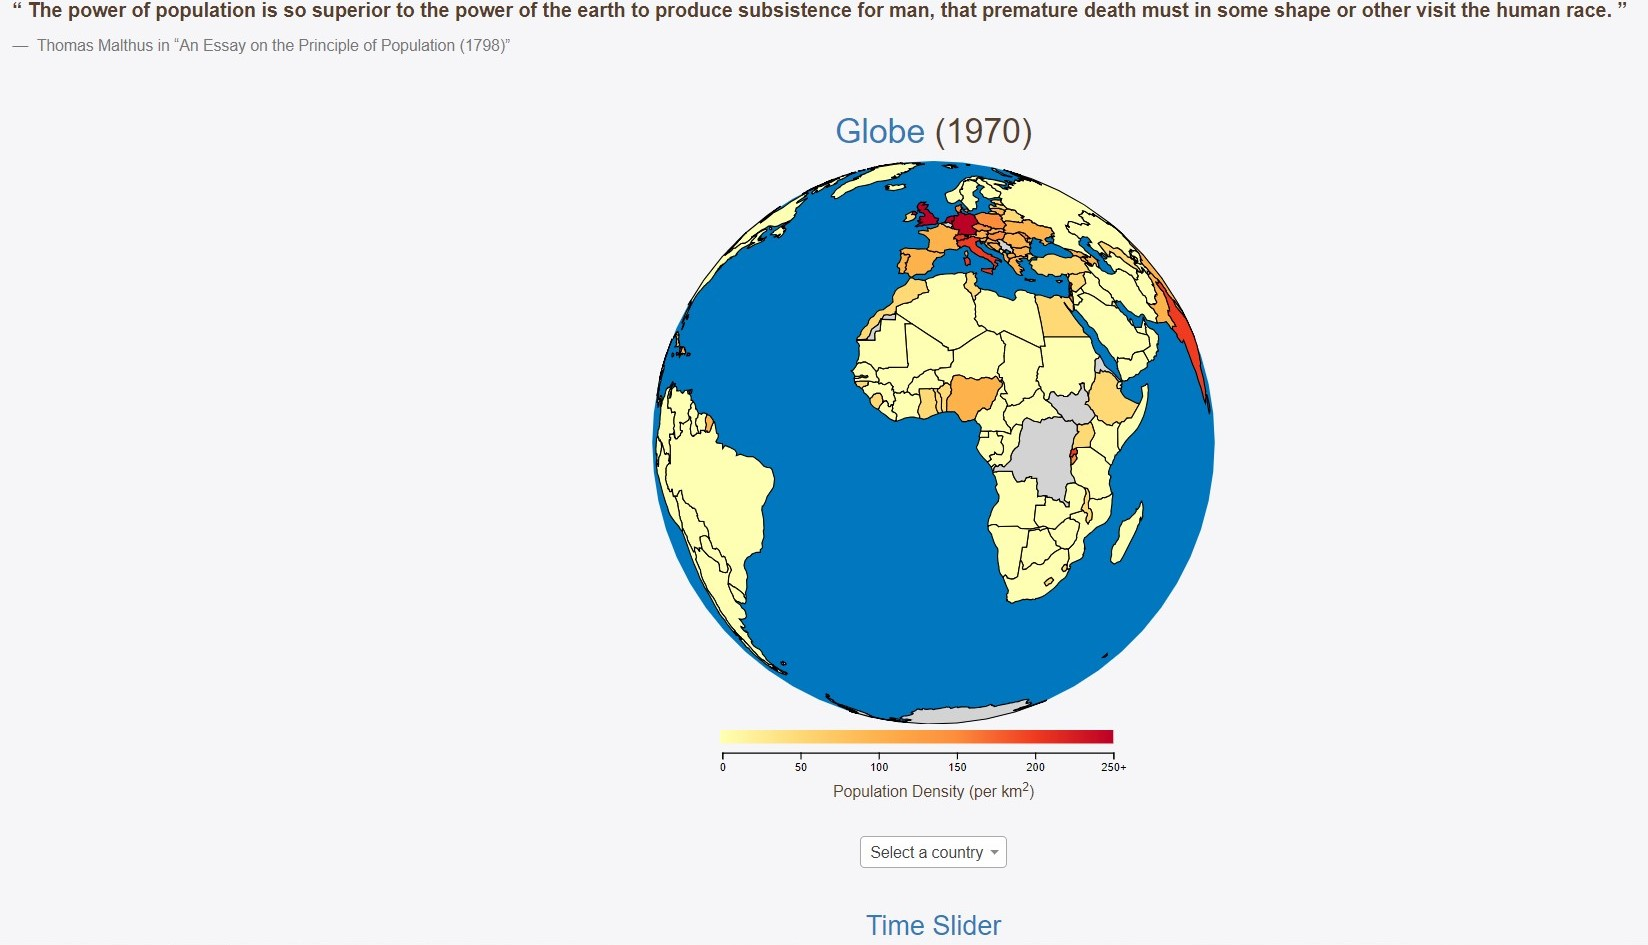
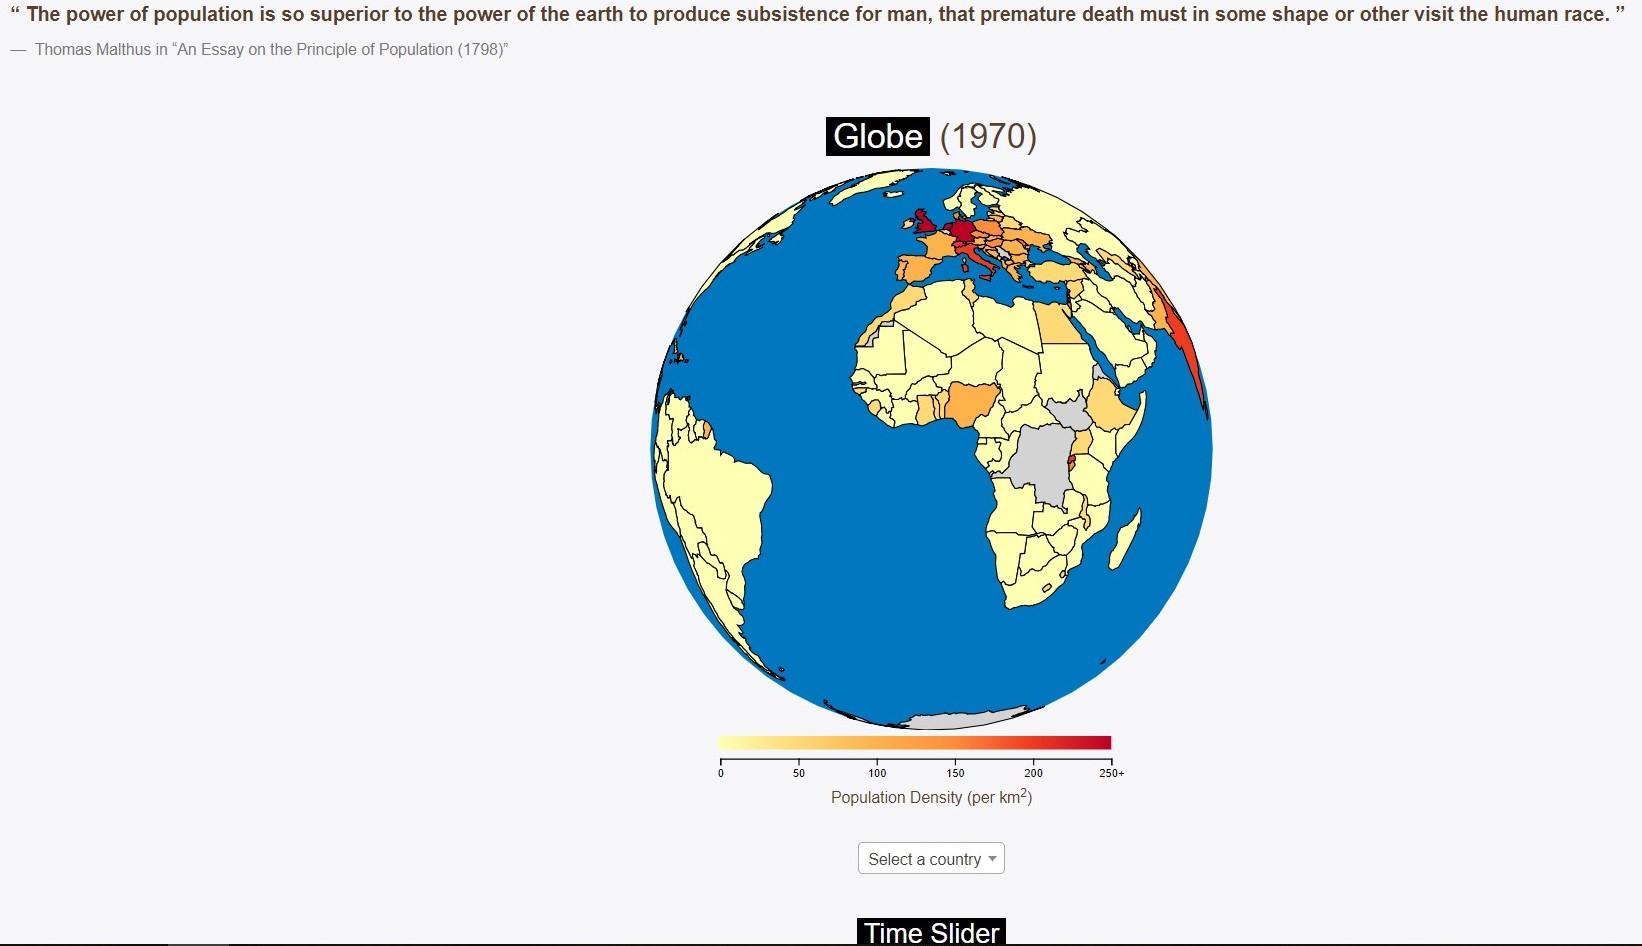
everything but video finished

diff --git a/index.html b/index.html
@@ -117,8 +117,8 @@
 
                 <!--  add a popover to the globe -->
                 <h2>
-                    <a title="<h4> How to use the Globe? </h4>" data-html="true" data-toggle="popover" data-trigger="hover" data-content="<div>The globe itself shows how densely populated some countries were in a specific year.<br><br> - To locate a country on the map the user could 1) drag the globe and find a country manually or 2) simply use the drop down menu right below the globe.<br><br>
-                    - Hoovering over a specific country, will change the countries colour on the globe to purple. <br><br> - By <b>CLICKING</b> on a specific country, the user will be presented with more information about the country that was selected. <br><br> - Countries with no data available are colored in grey <br><br> - The Donut chart and the Line Graph will also show more data about the specific country that was <b>CLICKED</b> on. <br><br> - Finally, note that by using the Timeslider below, the data projected on to the globe will change and show how densely populated countries were in the year that was selected.</div>">Globe</a><span id="globeTitle"> (1970)</span>
+                    <button type="button" title="<h4> How to use the Globe? </h4>" data-html="true" data-toggle="popover" data-trigger="hover" data-content="<div>The globe itself shows how densely populated some countries were in a specific year.<br><br> - To locate a country on the map the user could 1) drag the globe and find a country manually or 2) simply use the drop down menu right below the globe.<br><br>
+                    - Hoovering over a specific country, will change the countries colour on the globe to purple. <br><br> - By <b>CLICKING</b> on a specific country, the user will be presented with more information about the country that was selected. <br><br> - Countries with no data available are colored in grey <br><br> - The Donut chart and the Line Graph will also show more data about the specific country that was <b>CLICKED</b> on. <br><br> - Finally, note that by using the Timeslider below, the data projected on to the globe will change and show how densely populated countries were in the year that was selected.</div>">Globe</button><span id="globeTitle"> (1970)</span>
                 </h2>
             </div>
         </div>
@@ -145,7 +145,7 @@
 
             <!--  add a popover to the time slider -->
             <h3>
-                <a title="How to use the Time Slider?" data-html="true" data-toggle="popover" data-trigger="hover" data-content="<div>The Time Slider allows the user to change the year of which the data is shown on the Globe and on the Donut Chart. <br><br> - The user can choose any year between 1964 and 2014 by simply dragging the slider to the right place on the time line.<br><br> - Note that for years prior to 1990 their is <b>no</b> data available for the amount of forest area (% of land area)</div>">Time Slider</a>
+                <button type="button" title="How to use the Time Slider?" data-html="true" data-toggle="popover" data-trigger="hover" data-content="<div>The Time Slider allows the user to change the year of which the data is shown on the Globe and on the Donut Chart. <br><br> - The user can choose any year between 1964 and 2014 by simply dragging the slider to the right place on the time line.<br><br> - Note that for years prior to 1990 their is <b>no</b> data available for the amount of forest area (% of land area)</div>">Time Slider</button>
             </h3>
             <div class="col-sm">
                 <div id="timeSlider"></div>
@@ -178,11 +178,11 @@
 
                     <!--  add a popover to the line graph -->
                     <h2>
-                        <a title="How to use the Line Graph?" data-html="true" data-toggle="popover" data-trigger="hover" data-content="<div>The Line Graph allows the user to compare the population growth between 1964 and 2014 with the growth of another indicator of overpopulation. <br><br>
+                        <button class="button" type="button" title="How to use the Line Graph?" data-html="true" data-toggle="popover" data-trigger="hover" data-content="<div>The Line Graph allows the user to compare the population growth between 1964 and 2014 with the growth of another indicator of overpopulation. <br><br>
                         - With the dropdown menu above the Line Graph, the user is able to pick which variable will be compared with the total population growth. There are three options: 1) Total food production, 2) Crop production and 3) Livestock production.<br><br>.
                         - The variable are compared by using index numbers<br><br>
                         - The average of 2004 - 2006 is taken as the index basis (100) for every variable.<br><br>
-                        - Note that for years prior to 1990 their is <b>no</b> data available for some of the countries (e.g. Balkans)</div>">Line Graph</a><span id="lineGraphTitle">: World</span>
+                        - Note that for years prior to 1990 their is <b>no</b> data available for some of the countries (e.g. former Soviet Republics)</div>">Line Graph</button><span id="lineGraphTitle">: World</span>
                     </h2>
                 </div>
 
@@ -201,7 +201,7 @@
 
                     <!--  add a popover to the donut chart -->
                     <h2>
-                        <a title="How to use the Donut Chart?" data-html="true" data-toggle="popover" data-trigger="hover" data-content="<div>- Hoovering over one of the areas will present a textbox showing the user how much of the total land area is being used by one of the variables. <br><br> - The percentages itself will not be shown on one of the areas when the size of the area is less than 3% of the total land area(too small otherwise)<br><br> - Note that for years prior to 1990 their is <b>no</b> data available for the amount of forest area (% of land area) </div>">Donut Chart</a><span id="donutChartTitle">: World (1970)</span>
+                        <button type="button" title="How to use the Donut Chart?" data-html="true" data-toggle="popover" data-trigger="hover" data-content="<div>- Hoovering over one of the areas will present a textbox showing the user how much of the total land area is being used by one of the variables. <br><br> - The percentages itself will not be shown on one of the areas when the size of the area is less than 3% of the total land area(too small otherwise)<br><br> - Note that for years prior to 1990 their is <b>no</b> data available for the amount of forest area (% of land area) </div>">Donut Chart</button><span id="donutChartTitle">: World (1970)</span>
                     </h2>
                 </div>
 

diff --git a/scripts/javascript/globe.js b/scripts/javascript/globe.js
@@ -17,8 +17,8 @@ var w = 600,
     focused;
 
 /*
- *  Function to create a globe.
- *  source: https://bl.ocks.org/KoGor/5994804
+   Function to create a globe.
+   source: https://bl.ocks.org/KoGor/5994804
  */
 function createGlobe() {
 
@@ -46,8 +46,8 @@ function createGlobe() {
     var toolTip = d3.select("#globe").append("div").attr("class", "toolTip");
 
     /*
-     *  Add drop down menu to the globe with the select2 library.
-     *  source: https://select2.org/getting-started/basic-usage
+        Add drop down menu to the globe with the select2 library.
+        source: https://select2.org/getting-started/basic-usage
      */
     var countryDropDown = d3.select("#selectCountry").select("select")
         .attr("class", "countryDropDown").attr("name", "countryFeatures");
@@ -87,9 +87,9 @@ function createGlobe() {
         .attr("d", path)
 
         /*
-         *   Drag event function to allow user to rotate the globe when the
-         *   mouse is placed on a country.
-         *   source: https://bl.ocks.org/KoGor/5994804
+            Drag event function to allow user to rotate the globe when the
+            mouse is placed on a country.
+            source: https://bl.ocks.org/KoGor/5994804
          */
         .call(d3.drag()
             .subject(function() {
@@ -118,10 +118,7 @@ function createGlobe() {
                 .style("display", "none");
         })
 
-        /*
-         *   Click event updates the other visualizations.
-         *   Click events also change the country which is highlighted.
-         */
+        // click event updates all visualizations and highlights chosen country
         .on("click", function(d, i) {
             svg.selectAll(".focused").classed("focused", focused = false);
             var tipText = "No data available for"
@@ -155,14 +152,14 @@ function createGlobe() {
         });
 
         /*
-         *   Function called to fill the countries with a color based on their
-         *   population density.
+            Function called to fill the countries with a color based on their
+            population density.
          */
         colorUpdate();
 
         /*
-         *   Event when a country is selected which will rotate the globe and
-         *   which will highlight the chosen country.
+            Event when a country is selected which will rotate the globe and
+            which will highlight the chosen country.
          */
         $(".countryDropDown").on("select2:select", function(){
             var rotate = projection.rotate()
@@ -194,9 +191,9 @@ function createGlobe() {
              " (" + year + ")";
 
             /*
-             *  Transition function to rotate the globe smoothly and to
-             *  highlight chosen country.
-             *  source: https://bl.ocks.org/KoGor/5994804
+               Transition function to rotate the globe smoothly and to
+               highlight chosen country.
+               source: https://bl.ocks.org/KoGor/5994804
              */
             (function transition() {
                 d3.transition()
@@ -219,8 +216,8 @@ function createGlobe() {
 }
 
 /*
- *   Function to color the countries on the globe based on their population
- *   density per km2.
+    Function to color the countries on the globe based on their population
+    density per km2.
  */
 function colorUpdate() {
 
@@ -276,8 +273,8 @@ var svg = d3.select("#gradientLegend")
 
 
 /*
- *   Adds a defs element needed for the gradient legend.
- *   Source: https://www.visualcinnamon.com/2016/05/smooth-color-legend-d3-svg-gradient.html
+    Adds a defs element needed for the gradient legend.
+    Source: https://www.visualcinnamon.com/2016/05/smooth-color-legend-d3-svg-gradient.html
  */
 var defs = svg.append("defs");
 

diff --git a/scripts/javascript/linegraph.js b/scripts/javascript/linegraph.js
@@ -16,8 +16,8 @@ x,
 y;
 
 /*
- *   Function which creates a line graph.
- *   Inspiration: https://bl.ocks.org/d3noob/4db972df5d7efc7d611255d1cc6f3c4f
+    Function which creates a line graph.
+    Inspiration: https://bl.ocks.org/d3noob/4db972df5d7efc7d611255d1cc6f3c4f
  */
 function createLineGraph() {
 
@@ -120,8 +120,8 @@ function createLineGraph() {
     drawPath();
 
     /*
-     *    Event when user selects a option inside the drop down menu.
-     *    Draw new lines based on the value that was chosen by the user.
+         Event when user selects a option inside the drop down menu.
+         Draw new lines based on the value that was chosen by the user.
      */
     $(".indicatorDropdown").on("select2:select", function() {
         chosenValue = eval(this.value)
@@ -148,10 +148,10 @@ function drawPath() {
     d3.select("#popLineText").remove();
 
     /*
-     *   Need to calculate the base index for the total population for the
-     *   chosen country.
-     *   Base index is the average between 2004 and 2006.
-     *   Data did not provide this.
+        Need to calculate the base index for the total population for the
+        chosen country.
+        Base index is the average between 2004 and 2006.
+        Data did not provide this.
      */
     popTotal.forEach(function(d, i) {
         if (d["Country"] === country) {
@@ -221,20 +221,20 @@ function drawPath() {
 
     // add label to the chosen value line
     svg.append("text")
-      .attr("id", "foodLineText")
-      .attr("transform", "translate(" + textWidth + "," + textHeight + ")")
-      .attr("dy", ".35em")
-      .attr("text-anchor", "start")
-      .style("fill", "steelblue")
-      .text(chosenText);
+        .attr("id", "foodLineText")
+        .attr("transform", "translate(" + textWidth + "," + textHeight + ")")
+        .attr("dy", ".35em")
+        .attr("text-anchor", "start")
+        .style("fill", "steelblue")
+        .text(chosenText);
 
     // add label to the total population line
     svg.append("text")
-      .attr("id", "popLineText")
-      .attr("transform", "translate(" + textWidth + "," + (textHeight -
+        .attr("id", "popLineText")
+        .attr("transform", "translate(" + textWidth + "," + (textHeight -
              textPadding) +")")
-      .attr("dy", ".35em")
-      .attr("text-anchor", "start")
-      .style("fill", "red")
-      .text("Population Index");
+        .attr("dy", ".35em")
+        .attr("text-anchor", "start")
+        .style("fill", "red")
+        .text("Population Index");
 };

diff --git a/scripts/javascript/timeslider.js b/scripts/javascript/timeslider.js
@@ -20,10 +20,10 @@ function createTimeSlider() {
                 });
 
     /*
-     *   Determine size and ticks on the time slider.
-     *   On change event update other visualizations with data from the chosen
-     *   year.
-     *   Source: https://bl.ocks.org/johnwalley/e1d256b81e51da68f7feb632a53c3518
+        Determine size and ticks on the time slider.
+        On change event update other visualizations with data from the chosen
+        year.
+        Source: https://bl.ocks.org/johnwalley/e1d256b81e51da68f7feb632a53c3518
      */
     var timeSlider = d3.sliderHorizontal()
         .min(d3.min(years))
@@ -41,8 +41,8 @@ function createTimeSlider() {
             colorUpdate();
 
             /*
-             *   Change year in the donut chart title and update data needed to
-             *   refill the donut chart.
+                Change year in the donut chart title and update data needed to
+                refill the donut chart.
              */
             document.getElementById("donutChartTitle").innerHTML = ": " +
                 country + "(" + year  + ")";

diff --git a/scripts/javascript/main.js b/scripts/javascript/main.js
@@ -16,25 +16,20 @@ popDensity = [],
 popTotal = [],
 year = 1970;
 
-// call function to load data when page is loaded
-window.onload = function() {
-  loadData();
-};
-
 /**
- *  Function which loads three json files.
- *  Calls another function to check the queue response.
+   Function which loads three json files when website is opened.
+   Calls another function to check the queue response.
  */
-function loadData() {
+window.onload = function() {
   d3.queue()
     .defer(d3.json, "https://raw.githubusercontent.com/stevenuva/project/master/data/world_bank_data.json")
     .awaitAll(checkResponse);
 };
 
 /**
- *  Function checks if the queue response is vallid.
- *  Seperates the json data if response is vallid.
- *  Calls another function to store the data
+   Function checks if the queue response is vallid.
+   Seperates the json data if response is vallid.
+   Calls another function to store the data
  */
 function checkResponse(error, response) {
     var jsonData = []

diff --git a/scripts/javascript/donutchart.js b/scripts/javascript/donutchart.js
@@ -7,8 +7,8 @@
  */
 
 /*
- *  Function wich creates a donut chart.
- *  Inspiration: https://www.youtube.com/watch?v=kK5kKA-0PUQ
+   Function wich creates a donut chart.
+   Inspiration: https://www.youtube.com/watch?v=kK5kKA-0PUQ
  */
 function createDonutChart() {
 
@@ -50,8 +50,8 @@ function createDonutChart() {
     };
 
     /*
-     *   Check if the chosen year is 1990 or later.
-     *   Data for forest area is not available before 1990.
+        Check if the chosen year is 1990 or later.
+        Data for forest area is not available before 1990.
      */
     if (year > 1989) {
         color = ["#fdae61", "#b2df8a", "#ffffb3"]

diff --git a/scripts/css/main.css b/scripts/css/main.css
@@ -21,6 +21,12 @@ body {
     color: #583E2E;
 }
 
+button {
+  background-color: black;
+  border: none;
+  color:white;
+}
+
 .extraStory {
     margin-left: 5%;
     margin-right: 5%;

diff --git a/REPORT.md b/REPORT.md
@@ -25,7 +25,7 @@ Converts the datasets (csv format) from data.worldbank.org to a json file. Note 
 
 #### index.html
 - uses bootstrap to place all the visualizations and elements at the right places on the website
-- adds a navbar, foot-links, and popovers and text to the webpage
+- adds a navbar, foot-links, and popovers (activated by buttons) and text to the webpage
 - lot of divs are found here, these will be used to append the svg's containing the visualizations.
 
 #### main.js
@@ -42,7 +42,7 @@ This file consist of the main javascript code. From here other functions are cal
     4 createLineGraph(), found in lineGraph.js
     5 createTimeSlider(), found in timeSlider.js
 
-Besides that the restructData also calls a jquery function to initialize popovers after the visualizations have been created. Popovers can be seen on the index.html by hoovering over the title of the visualizations.
+Besides that the restructData also calls a jquery function to initialize popovers after the visualizations have been created. Popovers can be seen on the index.html by hoovering over the title of the visualizations (which is actually not a title but a button with text).
 
 #### main.css
 Adds style to the index.html and contains code for the tooltip which is used by the globe, the donut chart, and the line graph.

diff --git a/README.md b/README.md
@@ -27,7 +27,7 @@ ___
 
 - User can also edit the variables being shown in the line graph. User can choose to replace the total food data with either crop- or livestock production data. This can be done by selecting a variable just above the line graph
 
-- By hoovering over the title ("Globe", "Time Slider", "Donut Chart", "Line Graph"), the user activates a popover which gives instruction how to use the visualization.
+- By hoovering over a button ("Globe", "Time Slider", "Donut Chart", "Line Graph"), the user activates a popover which gives instruction how to use the visualization.
 ![drawn proposal](doc/update-and-popover.jpg)
 ___
 

diff --git a/REVIEW.md b/REVIEW.md
@@ -1,0 +1,33 @@
+Tips from Roos Greven and Simon Kemmere
+___
+
+index html - add more comments (more general comment)
+
+globe.js - remove multiline comment inside function
+
+main.js - merge functions loaddata() and window.onload
+
+lineGraph.js - remove * for multiline comments, add tabs for indentation
+
+timeslider.js - instead of d3 could have used bootstrap to add a time slider
+
+Other remarks: Could have put the functions to create legends in a separate file
+
+
+___
+
+Review Level Score:
+
+- Comments 3
+
+- Names 4
+
+- Formatting  3
+
+- Organization 3
+
+- Flow 3
+
+- Idiom 3
+
+- Structure 3
